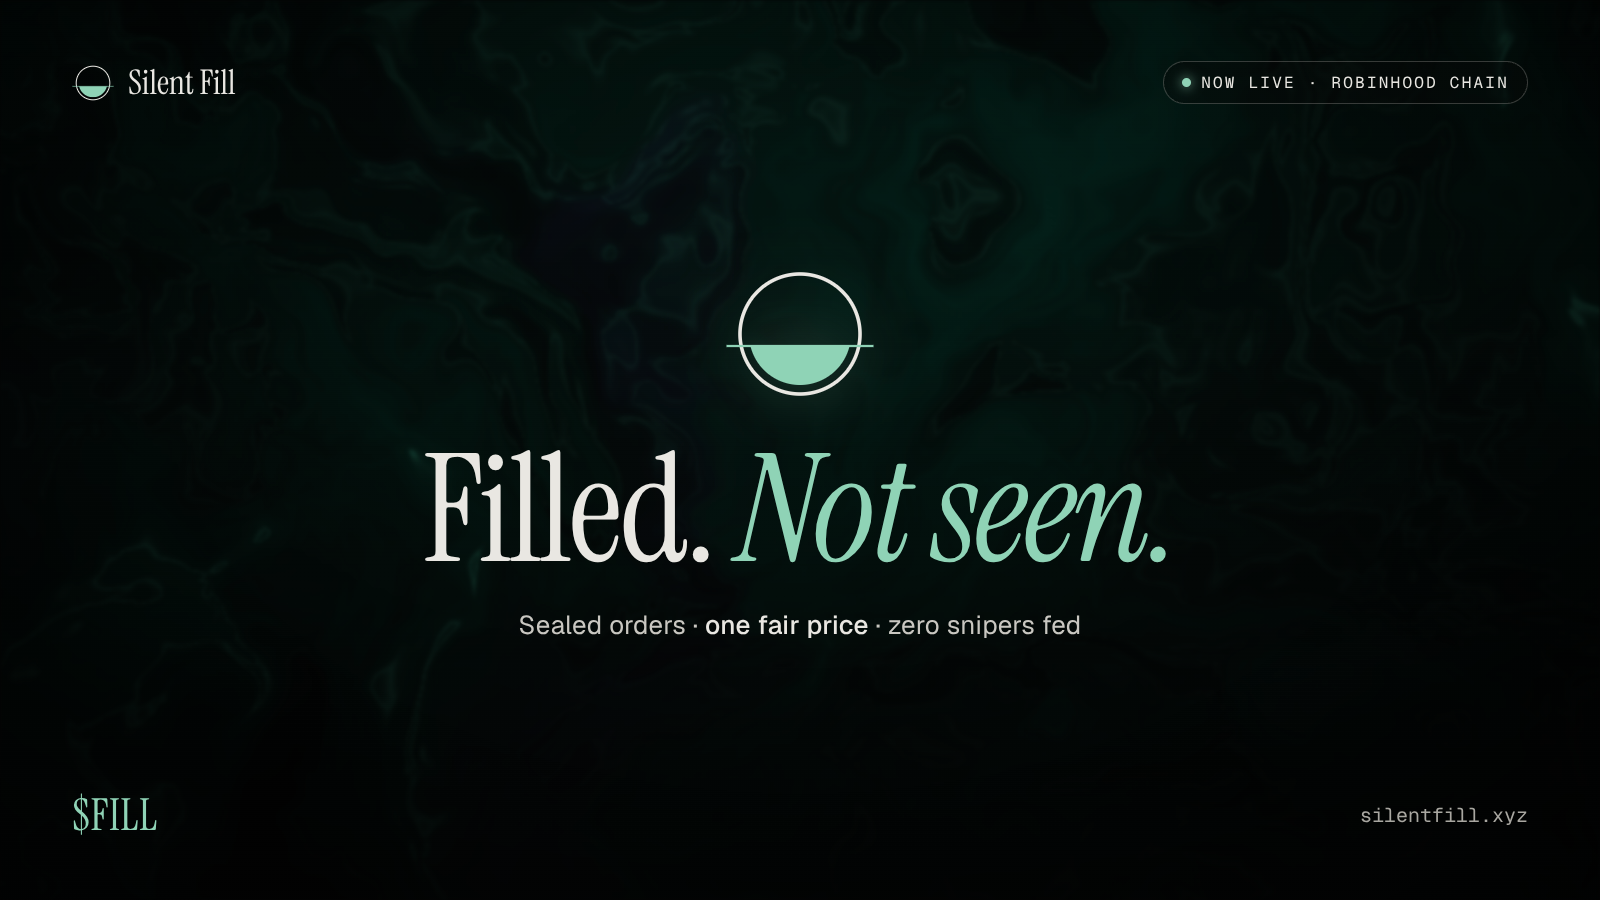
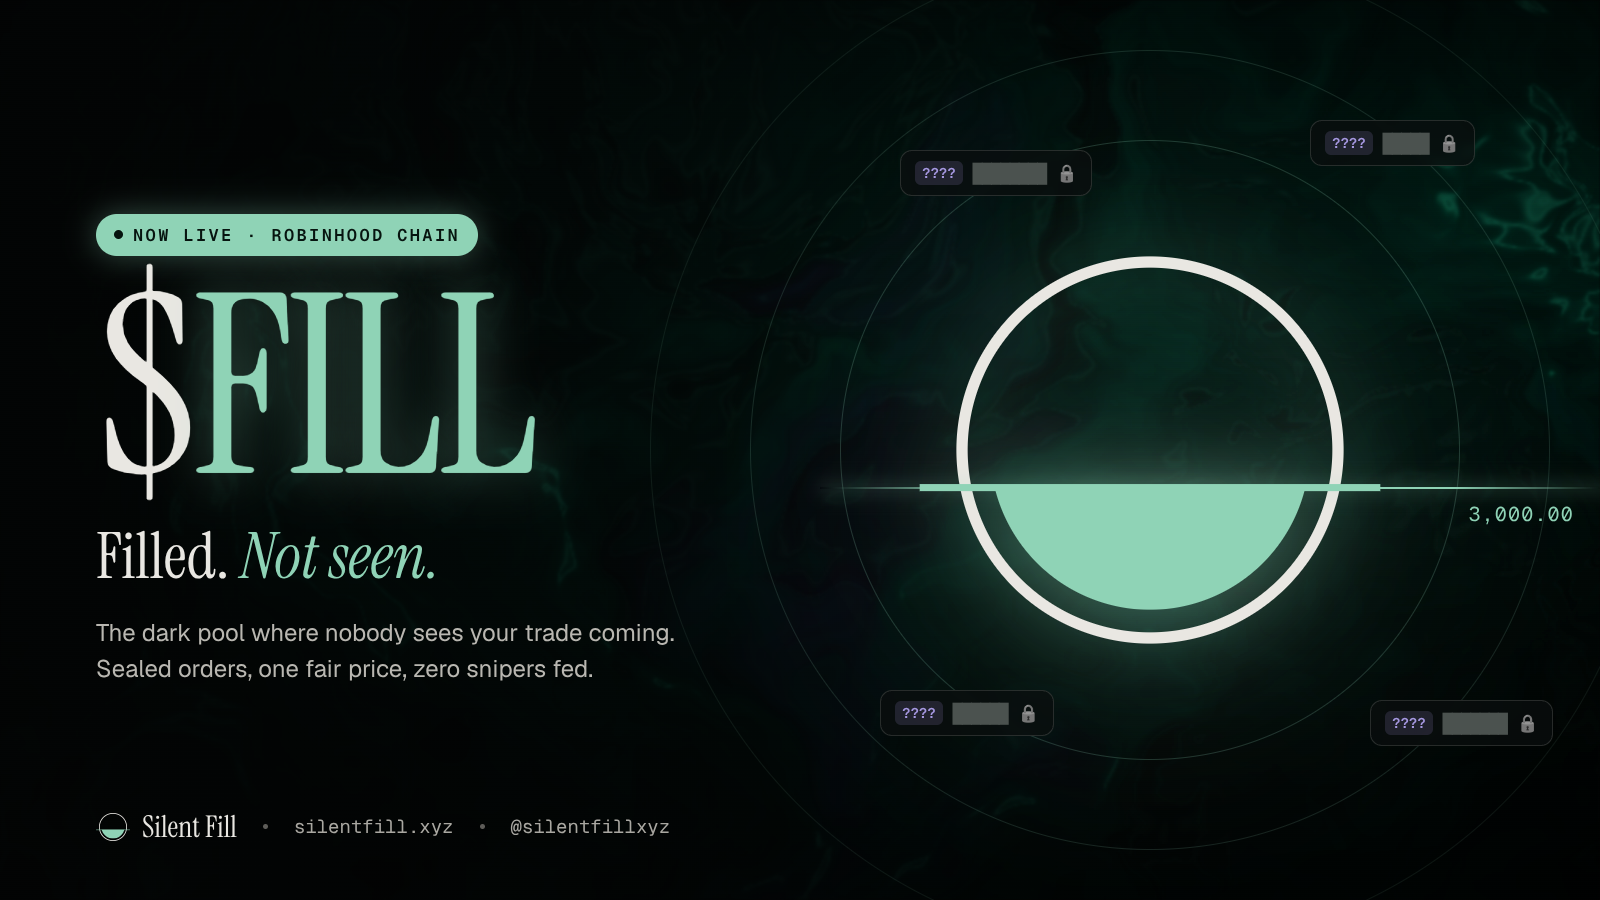
Bolder launch post image
Claude-Session: https://claude.ai/code/session_01Rdd2UEvvzUGUzfA7m6VNSB

diff --git a/brand/kit/launch2.html b/brand/kit/launch2.html
@@ -1,0 +1,49 @@
+<!doctype html><html><head><meta charset="utf-8"><link rel="stylesheet" href="base.css"><style>
+body{width:1600px;height:900px;position:relative;overflow:hidden}
+canvas{position:absolute;inset:0;width:100%;height:100%;filter:blur(1px) saturate(1.5) brightness(1.35)}
+.shade{position:absolute;inset:0;background:linear-gradient(90deg,rgba(3,4,4,.88) 0%,rgba(3,4,4,.55) 45%,rgba(3,4,4,.1) 75%),radial-gradient(ellipse at 72% 50%,transparent 20%,rgba(0,0,0,.55) 75%)}
+/* right: the pool */
+.pool{position:absolute;left:1150px;top:450px;transform:translate(-50%,-50%)}
+.ring{position:absolute;left:50%;top:50%;border-radius:50%;border:1px solid rgba(143,211,182,.22);transform:translate(-50%,-50%)}
+.mk{position:absolute;left:50%;top:50%;width:470px;height:470px;transform:translate(-50%,-50%);filter:drop-shadow(0 0 40px rgba(143,211,182,.45)) drop-shadow(0 0 120px rgba(143,211,182,.25))}
+.price{position:absolute;left:820px;right:-10px;top:487px;height:2px;background:linear-gradient(90deg,transparent,#8fd3b6 20%,#8fd3b6 80%,transparent);box-shadow:0 0 18px #8fd3b6}
+.price span{position:absolute;right:36px;top:14px;font-family:"Geist Mono";font-size:20px;color:#8fd3b6;letter-spacing:.06em}
+.chip{position:absolute;display:flex;align-items:center;gap:10px;padding:10px 14px;border-radius:12px;background:rgba(10,14,13,.75);border:1px solid rgba(233,231,226,.14);
+ font-family:"Geist Mono";font-size:17px;color:#cfcdc7;backdrop-filter:blur(4px)}
+.chip b{color:#a597e0;background:rgba(165,151,224,.16);border-radius:6px;padding:3px 7px;font-weight:600;font-size:14px}
+.chip i{font-style:normal;color:#4b524f;letter-spacing:-1px}
+.chip u{text-decoration:none;filter:grayscale(1) brightness(.7)}
+/* left: copy */
+.copy{position:absolute;left:96px;top:0;bottom:0;width:720px;display:flex;flex-direction:column;justify-content:center}
+.live{display:inline-flex;align-self:flex-start;align-items:center;gap:10px;font-family:"Geist Mono";font-size:17px;letter-spacing:.14em;text-transform:uppercase;
+ color:#06140f;background:#8fd3b6;border-radius:999px;padding:10px 18px;font-weight:600;box-shadow:0 0 30px rgba(143,211,182,.35)}
+.live i{width:9px;height:9px;border-radius:50%;background:#06140f}
+.tk{font-family:"Instrument Serif";font-size:250px;line-height:.82;letter-spacing:-.03em;margin:30px 0 34px;color:#e9e7e2}
+.tk em{font-style:normal;color:#8fd3b6;text-shadow:0 0 50px rgba(143,211,182,.45)}
+.tag{font-family:"Instrument Serif";font-size:64px;line-height:1;margin:0}.tag em{color:#8fd3b6}
+.sub{margin-top:26px;font-size:24px;line-height:1.5;color:#b9b7b1;max-width:620px}
+.foot{position:absolute;left:96px;bottom:54px;display:flex;align-items:center;gap:26px;font-family:"Geist Mono";font-size:19px;color:#a9a7a1}
+.foot .b{display:flex;align-items:center;gap:12px;font-family:"Instrument Serif";font-size:30px;color:#e9e7e2}.foot svg{width:34px;height:34px}
+.dot{width:5px;height:5px;border-radius:50%;background:#5d5c58}
+</style></head><body>
+<canvas id="w" width="800" height="450"></canvas><div class="shade"></div>
+<div class="pool">
+ <div class="ring" style="width:620px;height:620px"></div>
+ <div class="ring" style="width:800px;height:800px;opacity:.7"></div>
+ <div class="ring" style="width:1000px;height:1000px;opacity:.4"></div>
+ <div class="mk"><svg xmlns="http://www.w3.org/2000/svg" viewBox="0 0 100 100"><defs><clipPath id="m"><circle cx="50" cy="50" r="34"/></clipPath></defs><circle cx="50" cy="50" r="40" fill="none" stroke="#e9e7e2" stroke-width="2.4"/><rect x="0" y="58" width="100" height="42" fill="#8fd3b6" clip-path="url(#m)"/><line x1="1" y1="58" x2="99" y2="58" stroke="#8fd3b6" stroke-width="1.5"/></svg></div>
+</div>
+<div class="price"><span>3,000.00</span></div>
+<div class="chip" style="left:900px;top:150px"><b>????</b><i>████████</i><u>🔒</u></div>
+<div class="chip" style="left:1310px;top:120px"><b>????</b><i>█████</i><u>🔒</u></div>
+<div class="chip" style="left:1370px;top:700px"><b>????</b><i>███████</i><u>🔒</u></div>
+<div class="chip" style="left:880px;top:690px"><b>????</b><i>██████</i><u>🔒</u></div>
+<div class="copy">
+ <div class="live"><i></i>Now live · Robinhood Chain</div>
+ <div class="tk">$<em>FILL</em></div>
+ <p class="tag">Filled. <em>Not seen.</em></p>
+ <div class="sub">The dark pool where nobody sees your trade coming. Sealed orders, one fair price, zero snipers fed.</div>
+</div>
+<div class="foot"><span class="b"><svg xmlns="http://www.w3.org/2000/svg" viewBox="0 0 100 100"><defs><clipPath id="m"><circle cx="50" cy="50" r="34"/></clipPath></defs><circle cx="50" cy="50" r="40" fill="none" stroke="#e9e7e2" stroke-width="2.4"/><rect x="0" y="58" width="100" height="42" fill="#8fd3b6" clip-path="url(#m)"/><line x1="1" y1="58" x2="99" y2="58" stroke="#8fd3b6" stroke-width="1.5"/></svg> Silent Fill</span><span class="dot"></span><span>silentfill.xyz</span><span class="dot"></span><span>@silentfillxyz</span></div>
+<script src="water.js"></script><script>water(document.getElementById("w"), 57.0)</script>
+</body></html>
